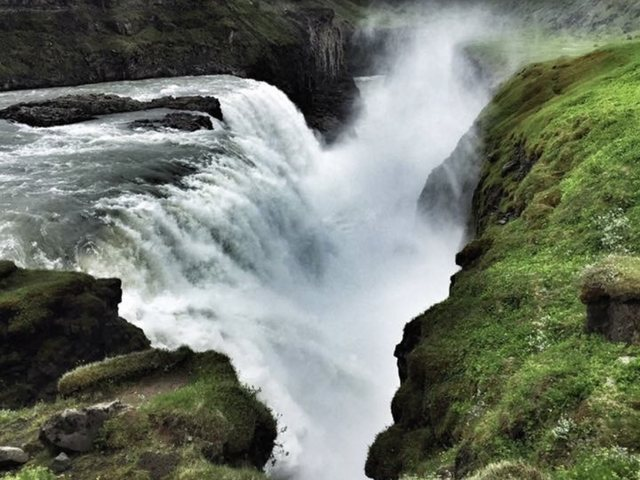
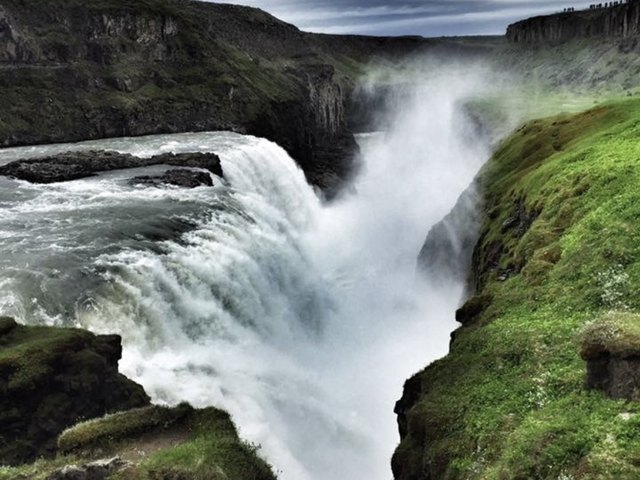
Änderungen vom 15.08.2026, 19:29
Bearbeitet: SPEC.md, index.html, kat-nord.jpg, kat-west.jpg, sw.js

diff --git a/index.html b/index.html
@@ -1445,7 +1445,7 @@
   // ueberein, laedt das Handy die Seite einmal ganz frisch nach, mit einer
   // Handynummer in der Adresse, die ein Zwischenspeichern verhindert.
   (function(){
-    var AKTUELLE_VERSION = "2026-08-10.91";
+    var AKTUELLE_VERSION = "2026-08-10.92";
     try {
       var gemerkt = localStorage.getItem("myisland.version");
       if (gemerkt !== AKTUELLE_VERSION){
@@ -3872,17 +3872,21 @@
   // Ausgesucht wurden sie danach, dass sie sich VONEINANDER unterscheiden -
   // bei vier Kacheln nebeneinander muss man die Bereiche auf einen Blick
   // auseinanderhalten koennen. Ein erster Versuch mit vier Strandbildern
-  // scheiterte genau daran. Jetzt: blaugraues Eis, weisser Sand, gruenes
-  // Wasser, goldener Abend (gemessene Helligkeit 116 bis 184).
-  // ENTSCHIEDEN am 10. Aug. 2026, bitte nicht mehr antasten. Auf das
-  // Angebot, das kaelteste der vier (Schneeberge) gegen ein waermeres
-  // Motiv zu tauschen, sagte Christine: "Die Bilder fuer die Uebungen der
-  // Meditationen, das belasse so, weil die sind perfekt. Dort bitte nichts
-  // aendern."
+  // scheiterte genau daran.
+  //
+  // Der "ENTSCHIEDEN, nicht mehr antasten"-Vermerk, der hier stand, galt
+  // nur fuer den EINEN damaligen Einwand (Schneeberge = zu kalt). Christine
+  // hat seither zweimal aus eigenem Antrieb weitere Aenderungen verlangt -
+  // "Gedanken beruhigen" (Schneeberge -> weites Meer -> Tassen am Strand)
+  // und "Stress lösen" (Nahaufnahme Wasserfall -> Gullfoss von weitem),
+  // beide Male aus einem NEUEN Grund (Eis vermeiden; dann: zu wenig
+  // erkennbar in Kachel-Groesse). "Entschieden" heisst hier also: nicht
+  // grundlos wieder aufrollen - nicht: fuer immer unveraenderlich, wenn ein
+  // echter neuer Einwand kommt.
   var KAT_KACHEL_FOTO = {
-    nord:"kat-nord.jpg",   // Gedanken beruhigen - weites Meer in der Daemmerung: kein Punkt, an dem das Auge haengen bleibt
+    nord:"kat-nord.jpg",   // Gedanken beruhigen - zwei Tassen Tee im Sand, Meer und Berge dahinter: ein Moment zum Innehalten statt leerer Flaeche
     sued:"kat-sued.jpg",   // Gefuehle verstehen - Christines Muschelherz: das einzige Bild mit einem Zeichen darin
-    west:"kat-west.jpg",   // Stress loesen     - Wasserfall: das einzige mit Bewegung, etwas das abfliesst
+    west:"kat-west.jpg",   // Stress loesen     - Gullfoss von oben: zwei Stufen, tiefe Schlucht, kraeftiger Kontrast Weiss/Gruen, bleibt auch klein lesbar
     ost:"kat-ost.jpg"      // Entspannen        - Bucht am Abend: das einzige warme, goldenes Licht
   };
 

diff --git a/sw.js b/sw.js
@@ -8,7 +8,7 @@
 //
 // CACHE_NAME bei jeder wichtigen Aenderung mit hochzaehlen (gleiche Idee
 // wie AKTUELLE_VERSION in index.html) - das raeumt alte Speicherstaende auf.
-const CACHE_NAME = "myisland-cache-v82";
+const CACHE_NAME = "myisland-cache-v83";
 const SHELL_FILES = [
   "./",
   "./index.html",

diff --git a/SPEC.md b/SPEC.md
@@ -79,6 +79,7 @@ Aktueller Stand ist ein **einzelnes, selbstständiges HTML-File** (`index.html`)
 | 10. Aug. 2026 | **„Wir schlagen dir eine Meditation vor" — an drei Stellen sprach die App plötzlich als „wir" statt als sie selbst zu verschwinden und nur "du"/"ich" stehen zu lassen.** Christine: *„Wird in Meditationsapp von 'wir' gesprochen? Ich finde es verwirrend."* Sie hat den wunden Punkt getroffen: „wir" setzt ein Team/eine Firma hinter die App, die sonst nirgends auftritt — jede andere Stelle spricht entweder direkt zu ihr („dein Kompass zeigt …") oder in ihrer eigenen Ich-Form („Mein Weg", „Mein Fortschritt", 5. Aug. 2026, §2). **Gefunden mit einer Suche nach „wir"/„uns"/„unsere" in der ganzen App:** drei echte Treffer im Alltagstext — der Satz auf der Startseite („wir schlagen dir … vor") sowie zwei Begründungssätze auf der Kompass-Seite („empfehlen wir dir …", „haben wir dir … zusammengestellt"). **Bewusst unverändert:** die „wir"-Stellen in der Datenschutzerklärung (§3.7b) — dort ist mit „wir" zu Recht der App-Betreiber gemeint, ein anderer, rechtlich korrekter Kontext. Ersetzt durch die passive Form, die Christine selbst schon am 6. Aug. 2026 vorgegeben hatte (*„eine passende Meditation … wird dir vorgeschlagen"*, siehe §3.1) — die Startseite trägt jetzt wieder genau diesen Wortlaut, die beiden Kompass-Sätze passend dazu („wird dir … vorgeschlagen" / „wurde dir … zusammengestellt"). **Kurz recherchiert, ob „wir" in Meditations-Apps üblich ist:** Nichts Spezifisches gefunden, allgemeine UX-Writing-Quellen bestätigen aber die Richtung — personalisierte Zweitperson-Sprache passt besser zu einem ruhigen, nutzerzentrierten Ton als eine Marken-„Wir"-Stimme. | §2, §3.1, §3.3 |
 | 10. Aug. 2026 | **Drei Nacharbeiten am Foto-Umbau: der Wasserfall wurde nachgebessert, das Abendfoto zweimal ersetzt, und während der Meditation läuft nicht mehr das KI-Bild im Hintergrund.** (1) Christines erster Wasserfall-Zuschnitt zeigte fast nur Wiese — *„Man sieht den Wasserfall immer noch zu wenig."* Drei neue Zuschnitte vorgelegt (voller Fall + Wiese / näher / höher); im selben Zug ergab die Schärfe-Nachmessung (siehe Eintrag „Bildqualitäts-Prüfung") aber, dass der Strand unter blauem Himmel (IMG_2885) klar das schärfere Foto ist — dabei geblieben, `start-tag.jpg` zeigt seither diesen Strand. (2) Beim Abend zweimal nachgebessert: Christines erstes Foto war durch eine Fensterscheibe fotografiert (Dunst, Schärfe 38) — entdunstet und nachgeschärft auf 85. Sie blieb trotzdem unzufrieden und schickte ein neues, eigenes Foto vom selben Strand wie die Titelseite, ohne Fensterglas; das ist jetzt `start-abend.jpg` (Kontrast leicht angehoben, nachgeschärft auf 52). (3) *„Beachte, dass das AI-Bild nicht gezeigt werden muss, wenn die Meditation läuft. Dort kannst du auch ein anderes nehmen, wenn's vom Thema passt wie Winter, Wald."* `loadQueueItem()` zeigte bislang `med.bg \|\| insel.jpg` — für die 17 Übungen ohne eigenes Bild also immer das gemalte Insel-Bild. Jetzt `med.bg \|\| LIB_KAT_FOTO[med.dir] \|\| insel.jpg`: Diese Übungen bekommen das Bild ihrer eigenen Kategorie (heller Raum, Herzraum, Waldlichtung, Bergsee) statt der immergleichen Insel; `insel.jpg` bleibt nur der letzte Notnagel. | §3.1, §3.3, §5a |
 | 10. Aug. 2026 | **Der Kompass ist wieder das gemalte Bild — und wird gerade in eine fotorealistische Fassung desselben Motivs umgesetzt.** Nach dem Wechsel auf „Meer und Sand" (voriger Eintrag) blieb Christine unzufrieden: *„Kompass gefällt mir nicht … es war fast besser das AI-Bild."* Sie bat zunächst um Alternativen mit Palme — im ganzen Fotobestand (35 Bilder) war aber keine einzige Palme dabei; drei neue Fotos aus Florida (Palmen vor Pool/Gebäuden) lösten das nicht befriedigend. Entschieden: **zurück zum ursprünglichen gemalten Bild** (`git show bf69505:index.html`, dieselbe Data-URI wie vor dem gesamten Foto-Umbau) — es steht jetzt wieder unverändert in `.compass-photo`. Die 420×420-Vorlage wurde ihr als Datei geschickt, dazu ein Prompt-Text für ChatGPT (fotorealistische Fassung desselben Bildaufbaus, ohne Rahmen, an allen vier Rändern ruhig für die `.dial-label`-Wörter). **Erster ChatGPT-Versuch** übernahm ungewollt einen goldenen Rahmen und ein rundes weisses „Fenster" mitten im Bild (beides kam aus der quadratischen Vorlage, die selbst schon einen Rahmen hatte) — als Nachfrage-Prompt „ohne Rahmen, ohne Fenster, Landschaft durchgehend" formuliert. **Zweiter Versuch war brauchbar** und wurde eingebaut (560×560, Data-URI in `.compass-photo`): dieselbe Komposition wie das gemalte Original (Berge/Bucht links, Palmen/Felsen rechts, Sandstrand vorne), nur fotorealistisch. **Gegengeprüft statt geschätzt:** Links (Bergsilhouette) und rechts (Palmwedel) sind NICHT ruhig — genau dort, wo „Entspannt"/„Angespannt" stehen. Ein echter Screenshot mit dem heutigen `.dial-label` (5 px Schein, 94 % deckend, siehe Eintrag von vormittags) zeigt aber: alle vier Wörter bleiben lesbar, der verstärkte Schein trägt auch über Blattwerk und Bergkante. Ohne diese Nachmessung hätte das Bild aufgrund der Grundsatz-Regel „ruhige Fläche" abgelehnt werden müssen — sie gilt inhaltlich weiter, wird hier aber durch echtes Nachprüfen statt durch Annahme entschieden. | §3.2, §5a |
+| 10. Aug. 2026 | **Zwei der vier Übungs-Kacheln nochmals ausgetauscht — der „entschieden, nicht mehr anfassen"-Vermerk galt nicht für jeden künftigen Einwand.** *„Gedanken beruhigen"* (Schneeberge → „weites Meer in der Dämmerung", siehe vorheriger Eintrag) fand Christine dann doch zu nichtssagend: *„Es gefällt mir nicht, sagt nichts aus."* Vier neue Vorschläge gezeigt (Nebel am Berg / Strand mit Bergsilhouette / Gletscherspalte / spiegelnder Bergsee); ihr eigener Einfall traf es besser — **zwei Tassen Tee im Sand, Meer und schneebedeckte Berge dahinter**. **Erster Zuschnitt zu weit gewählt:** Bei `cy 0.62` wirkten die Tassen in der kleinen Kachel nur wie ein heller Fleck — *„2 Tassen erkennt man nichts."* Kein Fall für ChatGPT (ihre Nachfrage), sondern ein reines Zuschnitt-Problem: Fünf engere Ausschnitte durchprobiert, direkt in der Bibliotheks-Kachelgrösse (4:3, echtes Handy-Raster) verglichen statt nur als Einzelbild — bei zu engem Zuschnitt (`t5`/`t6`) fiel der Bergsee-Horizont weg und das Bild verlor genau das, was es besonders machte. **Gewählt: `t3`** (`y 500–1420`) — Tassen klar erkennbar UND Horizont mit Bergen sichtbar. Bei *„Stress lösen"* galt dieselbe Lehre wie beim Muschelherz-Vergleich vorher: Die Nahaufnahme des Wasserfalls (Gischt) verschwamm in Kachel-Grösse mit dem hellen Himmel zu einem unklaren grünen Fleck — direkt im Handy-Raster gegengeprüft, nicht nur behauptet. **Gewählt: Gullfoss von oben** (zwei Stufen, tiefe Schlucht) statt der Nahaufnahme — kräftiger Kontrast Weiss/Grün, bleibt auch klein lesbar; Christine bestätigte direkt. **`kat-nord.jpg` und `kat-west.jpg` überschrieben** (640×480), Kommentare bei `KAT_KACHEL_FOTO` nachgezogen. **Der „entschieden"-Vermerk wurde nicht aufgehoben, sondern präzisiert:** Er verhindert grundloses Wiederaufrollen, nicht das Reagieren auf einen echten neuen Einwand — genau das war hier beide Male der Fall (erst Kälte, dann Lesbarkeit in echter Grösse), nicht ein Zurückrudern ohne Grund. | §3.4, §5a |
 | 7. Aug. 2026 | **Erste Lieferung, die keinerlei Nachbearbeitung brauchte — 28 von 39 Symbolen sind damit fertig.** Fünf Bilder (Nr. 35 Taube, 36 Lotusblüte, 37 Mondsichel, 38 Schweizerkreuz, 39 sitzende Person), alle verwendbar, **Strichstärke 5,8–7,3 %** — erstmals genau die verlangten 6 %, also **kein Verstärken nötig**; nur entschimmert, zugeschnitten, zentriert. **Ein Fehlalarm dokumentiert:** Vier davon zeigen sich in der Vorschau auf rosa-orangem Grund statt auf dem Karomuster. Das sah nach einem fehlenden Alpha-Kanal aus, ist aber keiner — die Bilder sind zu 93–97 % durchsichtig, unter der Transparenz liegt lediglich eine bunte Farbe, die manche Vorschauen mitzeigen. Wichtig für künftige Prüfungen: **erst den Alpha-Kanal messen, nicht dem Augenschein der Vorschau trauen.** **Nr. 38 mit Einschränkung angenommen:** Der Kreis um das Schweizerkreuz fehlt. An seiner Stelle (kleines Abzeichen neben „Schweizerdeutsch", §3.3) ist das eher von Vorteil — weniger Linien, klarer bei kleiner Anzeige; die Nachbesserungs-Formulierung steht in `Icon-Prompts.md`. **Damit fehlt je ein einziges Bild für zwei ganze Gruppen:** Nr. 27 (Sonne) schliesst die verstreuten Symbole ab — darunter die Begrüssung ganz oben auf der Startseite, wo Sonne, Palme und Mond stehen — und Nr. 16 (Insel) die Inselreise. | §5a |
 | 7. Aug. 2026 | **Die Zugangs-Karte hat als zweite Gruppe eigene Bilder — der letzte im App-Audit gefundene Stilbruch ist damit weg.** Mit Nr. 20 (Vorhängeschloss) war die Gruppe komplett; eingebaut wurden alle vier auf einmal: 🤍 → offenes Tor, ✅ → Haken im Kreis, ⏳ → Sanduhr, 🔒 → Vorhängeschloss (`renderStatusCard()`, `zugangIcon()`, `.status-bild` 26 von 42 px). Damit ist die im Konsistenz-Check vom Aug. 2026 als „echter, noch offener Stilbruch" notierte Stelle erledigt (§11 Nr. 13). Alle vier Zustände durchgeprüft — auch die drei, die man nur mit `ABO_LIVE = true` sieht (dafür eine Kopie der Datei auf einem zweiten Server, damit die App selbst unangetastet bleibt). **Beim Zusammenstellen angeglichen:** Der Torbogen kam schon mit kräftigen Strichen (38 % Farbfläche) und wirkte neben den drei nachverstärkten schwerer — er wurde als einziger **ausgedünnt** statt verstärkt (`MinFilter(9)`, jetzt 32 %). Aus derselben Lieferung ebenfalls verwendbar und abgelegt: Nr. 14 Kompassrose, 21 Zahlkarte, 24 Info-Kreis. **Zwei Einschränkungen dokumentiert statt neu bestellt:** Die Kompassrose ist mit acht Zacken, Doppelring und Mittelkreis fein gearbeitet und verdichtet sich bei 28 px; die Zahlkarte ist hochkant statt quer und liest sich eher wie ein Block. Beide brauchbar — die Nachbesserungs-Formulierung steht in `Icon-Prompts.md`, falls es später auffällt. | §3.6, §5a |
 | 7. Aug. 2026 | **Vierte Lieferung: erstmals alles brauchbar — 19 von 39 Symbolen sind damit fertig.** Nach den geschärften Vorgaben kamen fünf Bilder (Nr. 15 Palme, 18 Haken im Kreis, 19 Sanduhr, 22 Schlüssel, 23 Umriss einer Person), **alle fünf verwendbar** und als echte Umrisszeichnungen (9–19 % Farbfläche) im richtigen Ton. Zwei Kleinigkeiten beim Aufbereiten gelöst: **Die Striche waren mit 1,7–5,2 % zu fein** — maschinell verstärkt (`ImageFilter.MaxFilter(11)`), damit sie das Gewicht der bestehenden Familie treffen. Und **das Transparenz-Schachbrett war aufgemalt**: Die Bilder waren zu 0 % durchsichtig, das graue Karomuster steckte als echte Bildpunkte darin. Weil das Muster grau (R=G=B) und die Linien goldbraun sind, liess sich die Maske über die **Farbigkeit** (`max(RGB) − min(RGB)`) sauber neu berechnen. Beides ohne Rückfrage lösbar, kein Bild musste neu gemacht werden; der Grundtext verbietet das aufgemalte Schachbrett jetzt trotzdem. **Noch nichts eingebaut** — der Zugangs-Karte fehlt nur noch Nr. 20, der Inselreise die 14 und 16. Aufbereitete Bilder liegen unter `icons-original/bereit/`. | §5a |
